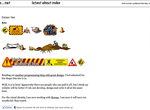
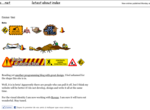
New post: I like tight pants and absolute beginners; linux for art students pt 1

diff --git a/absolute-beginners-unix-for-art-students-part-1.html b/absolute-beginners-unix-for-art-students-part-1.html
@@ -15,34 +15,34 @@
 <script type="text/javascript" src="/and/mt.js"></script>
 
 
-    <link rel="stylesheet" href="/and/style/in/bnf.css" type="text/css" />
-    <link rel="prev bookmark" href="/and/we-like-tight-pants-and-mathematics" title="I like tight pants and we like tight pants and mathematics" />
-    <link rel="next bookmark" href="/and/absolute-beginners-unix-for-art-students-part-1" title="I like tight pants and absolute beginners: unix for art students – part 1" />
+    <link rel="stylesheet" href="/and/style/in/glit.css" type="text/css" />
+    <link rel="prev bookmark" href="/and/vector-pixels" title="I like tight pants and vector pixels" />
+    
     <!--
 <rdf:RDF xmlns:rdf="http://www.w3.org/1999/02/22-rdf-syntax-ns#"
          xmlns:trackback="http://madskills.com/public/xml/rss/module/trackback/"
          xmlns:dc="http://purl.org/dc/elements/1.1/">
 <rdf:Description
-    rdf:about="http://i.liketightpants.net/and/vector-pixels.html"
-    trackback:ping="http://mt.schr.fr/tb.cgi/32"
-    dc:title="Vector pixels"
-    dc:identifier="http://i.liketightpants.net/and/vector-pixels.html"
+    rdf:about="http://i.liketightpants.net/and/absolute-beginners-unix-for-art-students-part-1.html"
+    trackback:ping="http://mt.schr.fr/tb.cgi/33"
+    dc:title="Absolute Beginners: Unix for Art Students – part 1"
+    dc:identifier="http://i.liketightpants.net/and/absolute-beginners-unix-for-art-students-part-1.html"
     dc:subject=""
-    dc:description="Creating a vector image from a raster image usually consists of imagining some kind of curve, responsible for the pixels. But this is guess work at best. Why don’t we work with what’s actually there—points?"
-    dc:creator="bnf"
-    dc:date="2011-11-25T17:14:10+01:00" />
+    dc:description="You see a Macintosh OS X 10.6 desktop with the standard background, purple spacescape, the sole program open is the terminal program, that reads: “Last login: Sat Oct 9 04:23:06 on console; computer-van-eric-schrijver:~ eric$"
+    dc:creator="glit"
+    dc:date="2011-11-28T23:30:57+01:00" />
 </rdf:RDF>
 -->
 
-    <title>I like tight pants and vector pixels</title>
-    <meta property="og:title" content="I like tight pants and vector pixels"/>
+    <title>I like tight pants and absolute beginners: unix for art students – part 1</title>
+    <meta property="og:title" content="I like tight pants and absolute beginners: unix for art students – part 1"/>
     <meta property="og:type" content="article"/>
-    <meta property="og:url" content="http://i.liketightpants.net/and/vector-pixels"/>
+    <meta property="og:url" content="http://i.liketightpants.net/and/absolute-beginners-unix-for-art-students-part-1"/>
     
-    <meta property="og:image" content="http://i.liketightpants.net/and/assets/called/vector_pixel_city.png"/>
+    <meta property="og:image" content="http://i.liketightpants.net/and/assets/scaled/to/830/wide/and/called/absolute_beginners_terminal.png"/>
     <meta property="og:site_name" content="I like tight pants and mathematics"/>
     <meta property="og:description"
-          content="Creating a vector image from a raster image usually consists of imagining some kind of curve, responsible for the pixels. But this is guess work at best. Why don’t we work with what’s actually there—points?"/>
+          content="You see a Macintosh OS X 10.6 desktop with the standard background, purple spacescape, the sole program open is the terminal program, that reads: “Last login: Sat Oct 9 04:23:06 on console; computer-van-eric-schrijver:~ eric$"/>
     <meta property="fb:admins" content="1488294875"/>
 </head>
 <body>
@@ -53,8 +53,7 @@
   <div class="grid_3">
   <ul>
     
-    
-    <li><a href="/and/absolute-beginners-unix-for-art-students-part-1">latest</a></li>
+    <li class="current">latest</li>
     
     <li><a href="/and/about">about</a></li>
     <li><a href="/and/archives">index</a></li>
@@ -68,9 +67,9 @@
 <div id="content" class="container_7">
 <div class="grid_1">
   
-  <img src="http://mt.schr.fr/lib/support/assets_c/userpics/userpic-8-100x100.png?6" width="100" height="100" alt="" />
+  <img src="http://mt.schr.fr/lib/support/assets_c/userpics/userpic-3-100x100.png?3" width="100" height="100" alt="" />
   
-  <h4 class="author">bnf</h4>
+  <h4 class="author">glit</h4>
   <p>&nbsp;</p>
   
   <hr />
@@ -79,8 +78,14 @@
   <dl>
   
   
-  <dt><a href="/and/vector-pixels">Vector pixels</a></dt>
-  <dd>November 25, 2011  5:14 PM</dd>
+  <dt><a href="/and/absolute-beginners-unix-for-art-students-part-1">Absolute Beginners: Unix for Art Students – part 1</a></dt>
+  <dd>November 28, 2011 11:30 PM</dd>
+  
+  <dt><a href="/and/a-new-hymn-for-easter">A New Hymn for Easter</a></dt>
+  <dd>April 25, 2011  8:54 PM</dd>
+  
+  <dt><a href="/and/golden">Golden</a></dt>
+  <dd>March 25, 2010  2:13 PM</dd>
   
   </dl>
 
@@ -117,90 +122,35 @@
 </div>
 <div class="grid_5 post">
   <p class="byline">
-  <a href="/and/we-like-tight-pants-and-mathematics">Previous</a> 
+  <a href="/and/vector-pixels">Previous</a> 
   
-  
-    / <a href="/and/absolute-beginners-unix-for-art-students-part-1">Next</a>
   </p>
   <div>
     <div class="article grid_3 alpha omega suffix_2">
-    <h4>Vector pixels</h4>
-    <p>
-<img src="/and/assets/called/vector_pixel_city_pixels.png" style="width:16px;height:16px;" alt="A stylised image of a skyscraper, in 16 by 16 pixels." title="" />
-<object type="image/svg+xml" style="width:384px;height:384px;" data="/and/assets/called/vector_pixel_city.svg">
-    <img src="/and/assets/called/vector_pixel_city.png" style="width:384px;height:384px;" alt="A stylised image of a skyscraper. The building is made out of square shapes on a 16 by 16 grid. The squares have rounded corners." />
- </object>
-</p>
+    <h4>Absolute Beginners: Unix for Art Students – part 1</h4>
+    <p><a href="/and/assets/called/absolute_beginners_terminal.png"><img src="/and/assets/scaled/to/830/wide/and/called/absolute_beginners_terminal.png" alt="You see a Macintosh OS X 10.6 desktop with the standard background, purple spacescape, the sole program open is the terminal program, that reads: “Last login: Sat Oct 9 04:23:06 on console; computer-van-eric-schrijver:~ eric$”" title="" /></a></p>
 
-<pre>#!/usr/bin/env python
-"""  Turns an image into a two-colored grid of vectorpixels: squares,
-circles, or squares with rounded corners.
+<p>Glit here. So maybe you read bnf’s latest article, and you can not make chocolate out of it. The <a href="http://i.liketightpants.net/and/vector-pixels" title="I like tight pants and vector pixels">little program</a> he writes, is a script that runs on the <a href="/and/the-voice-of-the-shell" title="I like tight pants and the voice of the shell">command line
+</a>. You may have never used the command line before. You might not even want to. But I’m here to tell you it’s a smart move.</p>
 
-Creating a vector image from a raster image usually consists of
-imagining some kind of curve, responsible for the pixels. But this
-is guess work at best. Why don’t we work with what’s actually
-there—points?
+<p>Imagine you’re an art student. And you just bought an expensive aluminium computer, because that’s part of the deal of being an art student today. What programs are you planning to run on it? Photoshop, Safari… Illustrator and inDesign maybe?</p>
 
-This script turns an image into a grid of vector squares, circles,
-or squares with rounded corners.
+<p>That’s so boring! There’s ways to be vastly more intimate and experimental with your computer, and since you have endeavored to study art and you want to be experimental and intimate with your materials, you better get at it with your computer too!</p>
 
-usage (command line):
+<p>You couldn’t tell by the glossy graphics, but your Mac runs actually quite an old fashioned system, called Unix. Unix has been around since like forever. Or at least the 1970ies. Unix used to run on big computers in universities and enterprises, but in Mac Os X it has now found it’s way to personal computers.</p>
 
-python vectorpixel.py inputimage.png > outputimage.svg
+<p>Because Unix used to be the system that computer scientists and system administrators would run, almost all of the nifty programming tools have been developed for Unix. Your mac comes preinstalled with all the major programming languages: Python, Ruby, Perl, PHP. It comes with the webserver that runs many of the websites on the internet: Apache. And because it is a Unix system, you can easily expand with all the open source software that is being written today.</p>
 
- TODO: allow multi-colour pictures, implement vertical and horiontal scanlines """
+<p>So here’s a sweet deal: your shiny expensive computer comes with a lot of programs for free, and you didn’t even know about it. Plus, you can tap into all the open source development that is being done right now. So whenever someone writes a new creative, clever or useful open source software tool, you can get that for free too! A whole new world to take in.</p>
 
-import Image
-import sys
+<p>Now here’s the catch. Computer programmers and system administrators have a culture all of their own. One of the defining characteristics is, within this culture, graphical user interfaces like your Mac’s windows and buttons are not seen as the easiest way to deal with a program. Rather, you are expected to deal with your program through a <em>Terminal</em>. This is a window in which you type commands. Just like in DOS, for those of you who have used a computer before 1995.</p>
 
-class vectorpixel:
-    def __init__(self, image):
-        self.i = Image.open(image)
-        self.i.convert("1")
-        self.px = self.i.load()
-        self.constructed = False
+<p>So to benefit from the culture of open source and programming, you have to learn how to use the terminal to run your programs. Other than that, you have to learn to use a program called a ‘package manager’ to easily install new programs. My colleagues are going to learn you both of these things. And to achieve the latter, we’re also going to install a compiler—having a compiler around is an integral part of this lifestyle.</p>
 
-    def construct(self, grid=24, line=1, rounded=4, test=(lambda x: x != 0)):
-        self.grid = grid
-        self.line = line
-        self.rounded = rounded
-        self.width = self.height = self.grid - 2 * self.line
-        self.test = test
-        self.fill = '#000000'
-        self.constructed = True
-
-    def _yieldlocations(self):
-        for x in range(self.i.size[0]):
-            for y in range(self.i.size[1]):
-                if self.test(self.px[x,y]):
-                    yield (x,y)
-
-    def _mkelements(self):
-        for l in self._yieldlocations():
-            yield "&lt;rect x='%s' y='%s' width='%s' height='%s' rx='%s' fill='%s'/&gt;" % (
-    self.grid * l[0] + self.line, self.grid * l[1] + self.line, self.width, self.height, self.rounded, self.fill)
-
-    def _format(self):
-        output = '&lt;svg xmlns="http://www.w3.org/2000/svg" width="%s" height="%s"&gt;\n' % (self.i.size[0] * self.grid, self.i.size[1] * self.grid)
-        for e in self._mkelements():
-            output += e
-            output += '\n'
-        output += '&lt;/svg&gt;'
-        return output
-
-    def generate(self):
-        if not self.constructed:
-            self.construct()
-        return self._format()
-
-    
-if __name__ == "__main__":
-    v = vectorpixel(sys.argv[1])
-    v.construct()
-    print v.count_elements()</pre>
+<p>I’ll hand it back to bnf to introduce you to the terminal!</p>
 
     <div id="comments" class="comments">
-<iframe src="//www.facebook.com/plugins/like.php?href=http%3A%2F%2Fi.liketightpants.net%2Fand%2Fvector-pixels.html&amp;send=false&amp;layout=standard&amp;width=530&amp;show_faces=false&amp;action=like&amp;colorscheme=light&amp;font&amp;height=35" scrolling="no" frameborder="0" style="border:none; overflow:hidden; width:530px; height:21px;" allowTransparency="true"></iframe>
+<iframe src="//www.facebook.com/plugins/like.php?href=http%3A%2F%2Fi.liketightpants.net%2Fand%2Fabsolute-beginners-unix-for-art-students-part-1.html&amp;send=false&amp;layout=standard&amp;width=530&amp;show_faces=false&amp;action=like&amp;colorscheme=light&amp;font&amp;height=35" scrolling="no" frameborder="0" style="border:none; overflow:hidden; width:530px; height:21px;" allowTransparency="true"></iframe>
 
 
 
@@ -219,7 +169,7 @@ if __name__ == "__main__":
 
             <form method="post" action="http://mt.schr.fr/comments.cgi" name="comments_form" id="comments-form" onsubmit="return mtCommentOnSubmit(this)">
                 <input type="hidden" name="static" value="1" />
-                <input type="hidden" name="entry_id" value="33" />
+                <input type="hidden" name="entry_id" value="34" />
                 <input type="hidden" name="__lang" value="en" />
                 <input type="hidden" name="parent_id" value="" id="comment-parent-id" />
                 <input type="hidden" name="armor" value="1" />

diff --git a/mt.js b/mt.js
@@ -100,7 +100,7 @@ function mtShowCaptcha() {
     if (mtCaptchaVisible) return;
     var div = document.getElementById('comments-open-captcha');
     if (div) {
-        div.innerHTML = '<div class="label"><label for="captcha_code">Captcha:</label></div><div class="field"><input type="hidden" name="token" value="HGqYoDzL8dwIsYiVXUBexzPIA1O33hh02T9LwvkD" /><img src="http://mt.schr.fr/comments.cgi/captcha/1/HGqYoDzL8dwIsYiVXUBexzPIA1O33hh02T9LwvkD" width="150" height="35" /><br /><input name="captcha_code" id="captcha_code" value="" autocomplete="off" /><p>Type the characters you see in the picture above.</p></div>';
+        div.innerHTML = '<div class="label"><label for="captcha_code">Captcha:</label></div><div class="field"><input type="hidden" name="token" value="qfLxv2cMO2ou6nBAacKDS0aa7jepuDBBv5Z3g5kU" /><img src="http://mt.schr.fr/comments.cgi/captcha/1/qfLxv2cMO2ou6nBAacKDS0aa7jepuDBBv5Z3g5kU" width="150" height="35" /><br /><input name="captcha_code" id="captcha_code" value="" autocomplete="off" /><p>Type the characters you see in the picture above.</p></div>';
         mtCaptchaVisible = true;
     }
 }

diff --git a/archives.html b/archives.html
@@ -26,7 +26,7 @@
     <div class="grid_3">
     <ul>
       
-      <li><a href="/and/vector-pixels">latest</a></li>
+      <li><a href="/and/absolute-beginners-unix-for-art-students-part-1">latest</a></li>
       <li><a href="/and/about">about</a></li>
       <li class="current">index</li>
     </ul>
@@ -236,6 +236,16 @@
           <p class="byline">Vector pixels</p>
     </div>
     
+
+  
+  
+    <div class="grid_1">
+          <a href="/and/absolute-beginners-unix-for-art-students-part-1">
+            <img src="/and/assets/as/screenshots/of/absolute-beginners-unix-for-art-students-part-1.png" style="width:150px;height:110px;" alt="I like tight pants and absolute beginners: unix for art students – part 1">
+          </a>
+          <p class="byline">Absolute Beginners: Unix for Art Students – part 1</p>
+    </div>
+    </div><div class="content container_7">
 
 </div>
 <div id="bar">&nbsp;</div>

diff --git a/index.php b/index.php
@@ -1,3 +1,3 @@
 <?php
-header('Location: /and/vector-pixels');
+header('Location: /and/absolute-beginners-unix-for-art-students-part-1');
 ?>
